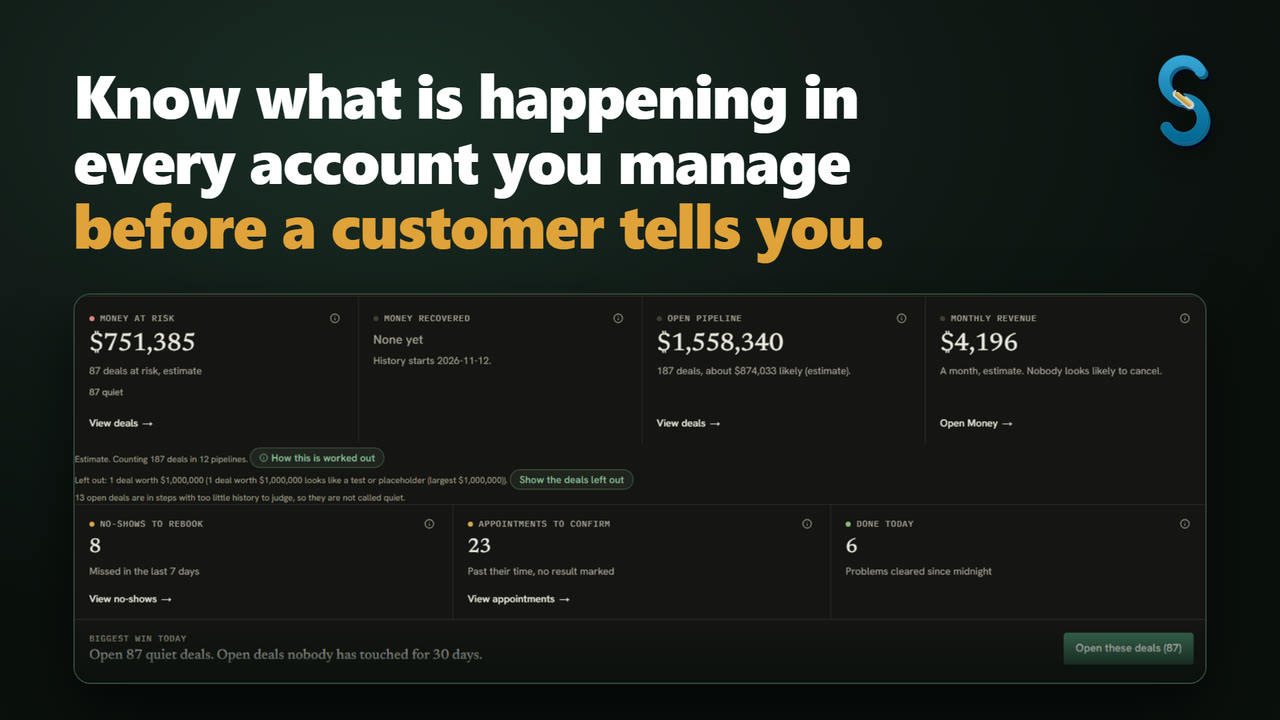
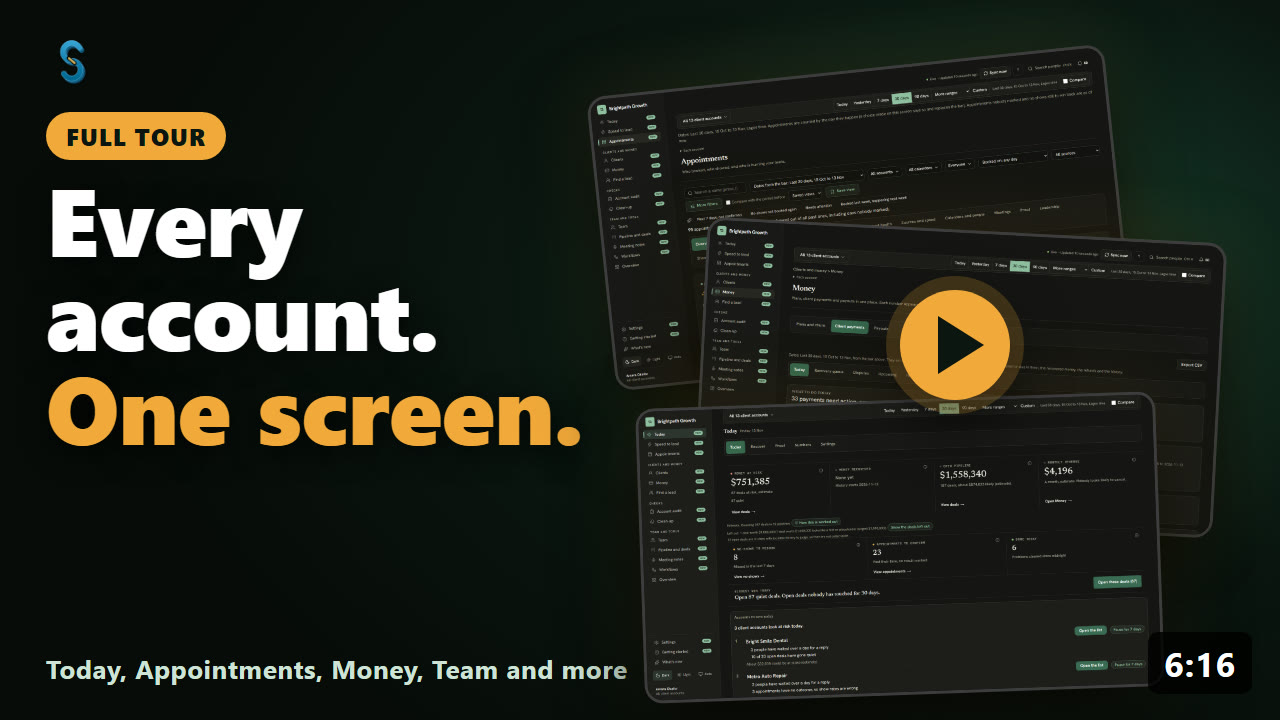
Site: speak to agencies, multi-account businesses and single businesses; new tour poster

diff --git a/src/app/page.tsx b/src/app/page.tsx
@@ -43,7 +43,7 @@ const STEPS: Array<[string, string]> = [
 ];
 
 const FAQ: Array<[string, string]> = [
-  ["Who is SubSync for?", "Agencies that manage many client accounts and single businesses that manage one. If leads, appointments and deals live in your CRM, SubSync watches them for you."],
+  ["Who is SubSync for?", "Agencies that manage many client accounts are our main users. It also fits any business with several accounts or locations, and a single business with one account. If leads, appointments and deals live in your CRM, SubSync watches them for you. Each person sees only the accounts they have access to."],
   ["Does it change anything in my CRM?", "Only after a preview and a confirm, with a log, and an undo where the page says one exists. Reading is the default, and every permission has a reason you can read."],
   ["Will it message my customers?", "Never on its own. Replying by text or email from SubSync exists behind a switch that is off until an owner turns it on for an account, and it checks do-not-contact again before each send. People who asked not to be contacted are never messaged."],
   ["What does it cost?", `${PRICING.trialDays} days free, then ${PRICING.price} ${PRICING.unit} on the ${PRICING.plan} plan. It is billed through the marketplace where you install it, never inside SubSync.`],
@@ -72,9 +72,9 @@ export default function Home() {
       <script type="application/ld+json" dangerouslySetInnerHTML={{ __html: JSON.stringify(ld).replace(/</g, "\\u003c") }} />
       <section className="hero">
         <div className="wrap">
-          <p className="eyebrow">For agencies and single businesses</p>
+          <p className="eyebrow">For agencies, multi-location businesses and single businesses</p>
           <h1>Know what is happening in every account you manage before a customer tells you.</h1>
-          <p className="lede">SubSync watches your connected accounts and tells you what needs attention first: leads nobody answered, appointments nobody marked, no-shows nobody called back and deals that went quiet.</p>
+          <p className="lede">Whether you run one account or a hundred, SubSync watches them and tells you what needs attention first: leads nobody answered, appointments nobody marked, no-shows nobody called back and deals that went quiet.</p>
           <div className="cta-row">
             <a className="btn btn-primary" href={INSTALL_HREF}>Install SubSync</a>
             <a className="btn btn-ghost" href="#tour">Watch the 4-minute tour</a>
@@ -86,6 +86,18 @@ export default function Home() {
       <section className="video" aria-label="Product tour video">
         <div className="wrap" style={{ maxWidth: 980 }}>
           <VideoPlayer />
+        </div>
+      </section>
+
+      <section className="block" aria-labelledby="who">
+        <div className="wrap">
+          <h2 className="h2" id="who">Made for the way you work</h2>
+          <p className="sub">The same pages for everyone. What you see depends on the accounts you can open.</p>
+          <div className="grid g3">
+            <div className="card"><h3>Agencies</h3><p>See every client account on one screen, find the one that needs you first, and share a report with the client.</p></div>
+            <div className="card"><h3>Businesses with several accounts</h3><p>Several locations, brands or teams? Compare them side by side and see which one is slipping.</p></div>
+            <div className="card"><h3>Single businesses</h3><p>One account is enough. You see only that account, with the same alerts and guides.</p></div>
+          </div>
         </div>
       </section>
 
